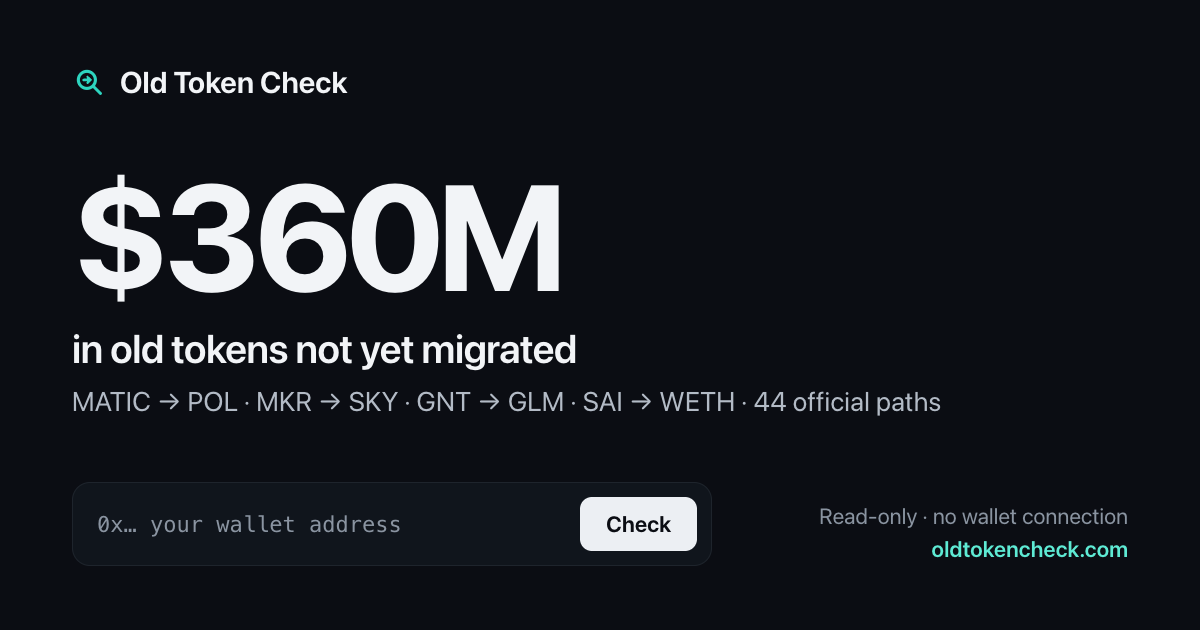
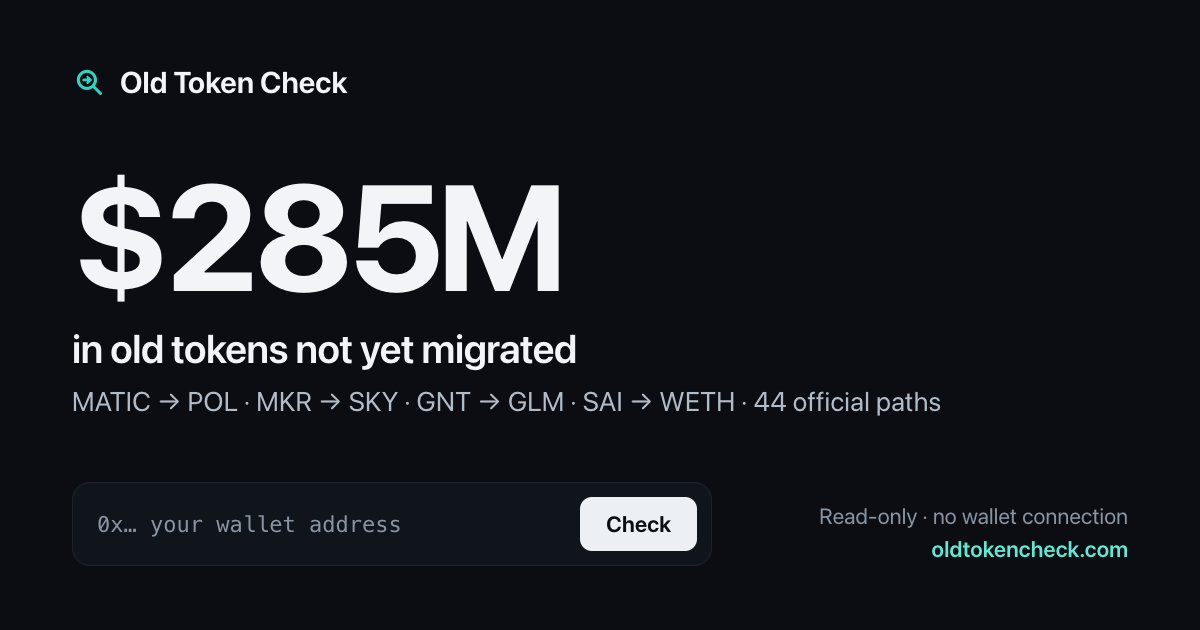
Stats: stop counting converted VELO v1 veNFTs as unmigrated
87% of VELO v1 supply sits in the v1 VotingEscrow, overwhelmingly v1 veNFTs
that were already converted to v2 and are held locked by the sink, plus
largely unclaimable rebases in the RewardsDistributor. Registry entries can
now list statsExclude holders; the headline drops from $360.1M to $285.1M.

Also adds research/HOLDINGS.md and the vote-escrow research (VELO v1, veOCEAN)
for upcoming locked-position support (not yet wired into the site).

Changed region(s): [[0.1233, 0.2714, 0.37, 0.4825]]

diff --git a/index.html b/index.html
@@ -16,7 +16,7 @@
   <meta property="og:image" content="https://oldtokencheck.com/og.png">
   <meta property="og:image:width" content="1200">
   <meta property="og:image:height" content="630">
-  <meta property="og:image:alt" content="Old Token Check: $360M in old tokens not yet migrated">
+  <meta property="og:image:alt" content="Old Token Check: $285M in old tokens not yet migrated">
   <meta name="twitter:card" content="summary_large_image">
   <meta name="twitter:title" content="Old Token Check: find old tokens you can still migrate">
   <meta name="twitter:description" content="Paste a wallet address. Every result is proven by a simulation from it. Read-only, no wallet connection.">

diff --git a/tools/build_stats.py b/tools/build_stats.py
@@ -45,7 +45,8 @@ total = 0.0; unpriced = []; rows = []
 for e in entries:
     c = e["chainId"]; ot = e["oldToken"]; nt = e["newToken"]
     sup = call_uint(c, ot["address"], "0x18160ddd")
-    out_old = sup - bal(c, ot["address"], e["migrator"]) - sum(bal(c, ot["address"], b) for b in BURN)
+    excl = [x["address"] for x in e.get("statsExclude", [])]  # holders that are not unmigrated user funds
+    out_old = sup - bal(c, ot["address"], e["migrator"]) - sum(bal(c, ot["address"], b) for b in BURN + excl)
     out_old = max(out_old, 0)
     ratio = Fraction(e["ratio"]["num"]) / Fraction(e["ratio"]["den"])
     new_whole = Fraction(out_old, 10 ** ot["decimals"]) * ratio
@@ -67,7 +68,7 @@ stats = {
     "unpriced": unpriced,
     "asOf": datetime.datetime.now(datetime.UTC).strftime("%Y-%m-%d"),
     "ethBlock": head,
-    "method": "Per path: min(outstanding old supply x ratio, payout reserve) x DefiLlama price. Outstanding = totalSupply minus migrator and burn-address balances.",
+    "method": "Per path: min(outstanding old supply x ratio, payout reserve) x DefiLlama price. Outstanding = totalSupply minus migrator, burn-address and known non-user balances (statsExclude, e.g. converted veNFTs held by a sink).",
 }
 json.dump(stats, open("data/stats.json", "w"), indent=1)
 print(json.dumps(stats, indent=1))

diff --git a/research/holdings-ve.md b/research/holdings-ve.md
@@ -1,0 +1,175 @@
+# Vote-escrowed old tokens: VELO v1 veNFTs (Optimism) and veOCEAN (Ethereum)
+
+Researched 2026-09-30. Optimism base block 157,570,832 (ts 1790740441); Ethereum base block 26,087,755.
+All sims: `eth_simulateV1`, `traceTransfers: true`, `validation: false`, time pinned on every block.
+Prices (DefiLlama, today): VELO v1 = VELO v2 = $0.0345; OCEAN $0.158; FET $0.220.
+
+## Summary
+
+| Position | Old token locked | ≈USD | Share already unlocked | Exit works today? | Simulated result |
+|---|---|---|---|---|---|
+| Velodrome v1 veNFTs, user-owned (excl. SinkManager and Beefy) | 2,875,837 VELO v1 in 9,368 NFTs | ~$99k | **79%** (2,279,195 in 7,113 NFTs, 4,925 owners) | Yes. Expired: `withdraw` → `convertVELO`. Unexpired: `convertVe` → v2 veNFT with the same end date | 41,274.37 VELO v1 → 41,274.37 VELO v2 (1:1). Unexpired: 104,680.94 v1 veNFT → v2 veNFT #34374 with the same amount and end |
+| Beefy beVELO veNFT #11346 (protocol wrapper) | 26,948,728 VELO v1 | ~$930k | 0% (ends 2028-01-27) | Only Beefy can act. Out of scope | not simulated |
+| SinkManager veNFT #26637 (protocol-owned sink) | 1,717,623,245 VELO v1 | n/a | n/a (it's the converted supply) | n/a. Not user funds | n/a |
+| veOCEAN locks | 26,572,646 OCEAN in 386 locks | ~$4.2M (≈$2.5M as FET) | **4.3%** (1,136,715 OCEAN, 120 locks) | Yes for expired locks: `withdraw()` → `migrateTokens` | 209,528 OCEAN → 90,772.98 FET (0.433226) |
+
+**Registry output:** one entry, `veocean-locked-to-fet`, in `data/registry.holdings-ve.json`. It fits the
+current holding shape: `locked(address)` takes one address and returns the amount as word 0. The engine
+can't express VELO v1 veNFTs because they're NFT positions (spec below).
+
+---
+
+## 1. Velodrome v1 VotingEscrow (Optimism)
+
+Contracts. All have code, and all are tagged "Velodrome Finance" on the Optimism explorer. The v2 SinkManager returns the same addresses on-chain:
+- VotingEscrow v1 (veNFT): `0x9c7305eb78a432ced5C4D14Cac27E8Ed569A2e26` (`SinkManager.ve()`)
+- Voter v1: `0x09236cff45047dbee6b921e00704bed6d6b8cf7e` (`SinkManager.voter()`)
+- RewardsDistributor v1: `0x5d5Bea9f0Fc13d967511668a60a3369fD53F784F` (`SinkManager.rewardsDistributor()`)
+- SinkManager (v2 converter): `0x5aeE5F0E6C2055EbD776DB25F48f6c9A68ABcdaE`. `ownedTokenId()` = 26637; `veV2()` = `0xFAf8FD17D9840595845582fCB047DF13f006787d`
+- Source: github.com/velodrome-finance/contracts `v2-optimism` → `contracts/v1/sink/SinkManager.sol`
+
+### How much is locked
+I enumerated every token ID from 1 to 26,905 (the highest ID with `user_point_epoch > 0`) with Multicall3: `locked`, `ownerOf`, `voted` and `attachments`.
+The sum of all `locked(id).amount` values is 1,747,447,810 VELO v1. That exactly equals `VELO_v1.balanceOf(VE)`, so the enumeration is complete.
+(`VE.supply()` reports 2.57B. That figure is inflated by the known Solidly `merge` bug, which never subtracts from `supply`, so don't use it.)
+
+| Holder | VELO v1 |
+|---|---|
+| SinkManager veNFT #26637 (all converted v1, relocked to 2030-09-19) | 1,717,623,245 |
+| Beefy "beVELO" (`0xfdeffc7a…c265`, contract) NFT #11346, end 2028-01-27, voted | 26,948,728 |
+| All other veNFTs (9,368 NFTs) | 2,875,837 |
+
+Lock-end distribution for the 2,875,837 VELO v1 in other veNFTs:
+- already expired: 2,279,195 (79.3%). Of this, 1,320,874 has `voted=true` and 235,381 is attached to a gauge.
+- 2026 H2: 176,212 · 2027 H1: 404,875 · 2027 H2: 12,478 · 2028 H1: ~1,800 · later: ~1,300
+
+### Exit paths (all simulated)
+1. **Expired, not voted, not attached**: holder `0x12311fe6…446e`, NFT #10216 (41,274.37 VELO, ended 2026-08-19).
+   `VE.withdraw(10216)` → `VELOv1.approve(SinkManager, amt)` → `SinkManager.convertVELO(amt)`.
+   Result: 41,274.371721387369181590 VELO v1 in → the same amount of VELO v2 minted to the holder. ✅
+2. **Expired + voted**: holder `0x9609bab9…eefb7`, NFT #6220 (37,653.33 VELO). `withdraw` alone reverts with `attached`.
+   `Voter.reset(6220)` → `withdraw` → approve → `convertVELO`. All succeed: 37,653.33 VELO v2 out. ✅
+   (`reset` has an `onlyNewEpoch` guard. It fails only if the NFT voted in the current epoch, which is irrelevant for dormant v1 NFTs.)
+3. **Expired + attached to a gauge**: holder `0xecca5382…a9020`, NFT #4764 (45,956.95 VELO), attached in gauge `0x0299d40e…214c`.
+   `Gauge.withdrawToken(0, 4764)` (detaches without moving LP) → `Voter.reset` → `withdraw` → approve → `convertVELO`. Result: 45,956.95 VELO v2 out. ✅
+4. **Unexpired: convert the veNFT today**: holder `0xe16c0e1b…ccd`, NFT #16117 (104,680.94 VELO, ends 2027-01-21, voted).
+   `Voter.reset(16117)` → `VE.approve(SinkManager, 16117)` → `SinkManager.convertVe(16117)`. This returns v2 veNFT #34374, and `veV2.locked(34374)` shows the same amount and end 1800489600 (same as v1).
+   A later block pinned at end+60s ran `veV2.withdraw(34374)` → 104,680.94 VELO v2 to the holder. ✅
+   Without `reset`: `convertVe` reverts `attached`. On an expired NFT, `convertVe` reverts `0xf7b679fe` (`NFTExpired()`).
+5. **Unexpired: wait in v1 (time override)**: same NFT. `reset` now, then in a block pinned to end+60s: `withdraw` → approve → `convertVELO`. Result: 104,680.94 VELO v2. ✅
+   A 113-day time jump simulates fine. Today, `withdraw` reverts `The lock didn't expire`.
+
+**Is veNFT v1→v2 conversion shipped and open?** Yes. The Velodrome v2 announcement (paragraph.com/@velodrome/v2) says v1 veNFTs convert "with the same vesting time and underlying locked token balance."
+The code has no deadline and no pause. The only guards are `ownedTokenId != 0`, not already converted, approval, and not expired.
+
+### Rebases (v1 RewardsDistributor): trap for expired locks
+- `RD.claimable(id)` over all user NFTs: Beefy 1,233,889; unexpired user NFTs 59,579; expired user NFTs 164,851.
+- For **expired** NFTs, `claim(id)` reverts `Cannot add to expired lock. Withdraw`, because v1 RD deposits into the lock. That ~165k VELO v1 (~$5.7k) is permanently stuck. Simulated on #10216, which has 5,378 claimable.
+- For **unexpired** NFTs, `claim(id)` works and adds to the lock (simulated on #16117: +10,809 VELO into the lock). Claim **before** `convertVe` or expiry, or the rebase is lost.
+- RD holds 239,972,342 VELO v1 in total (`token_last_balance`), but per-NFT `claimable` only accounts for ~1.46M. The rest isn't attributable to users through the view. It's the sink/protocol's backlog.
+
+### Other VELO v1 belonging to users (not engine-expressible today)
+- 401 v1 gauges (excl. sink gauge `0x987E…95d6`) hold 2,788,876 VELO v1 as unclaimed/streaming LP rewards. Claim: `Gauge.getReward(user, [VELOv1])`. View: `earned(VELOv1, user)`, which takes two arguments.
+- v1 internal/external bribes hold 103,264 VELO v1 (claimable per tokenId via `getReward(tokenId, tokens[])`).
+- Voter v1 holds 52,849 (undistributed).
+
+---
+
+## 2. veOCEAN (Ethereum)
+
+- veOCEAN: `0xE86Bf3B0D3a20444DE7c78932ACe6e5EfFE92379`. Verified Vyper `VotingEscrow`, Curve-style (one lock per address), `token()` = OCEAN. `transfersEnabled()` is irrelevant.
+- Ocean docs (docs.oceanprotocol.com/data-farming): veOCEAN, Passive DF and Active DF were retired **3 May 2024**. Holders got an airdrop, and locked OCEAN "unlock[s] according to its schedule (up to 4 years)". Holders claim the airdrop and past rewards at df.oceandao.org/rewards.
+- ASI docs/FAQ say nothing specific about veOCEAN. Ocean Protocol Foundation left the alliance on 2025-10-09. The OCEAN→FET migrator `0x664D…E663` (existing `ocean-to-fet` entry) is still unpaused.
+
+### How much is locked
+I collected 2,135 `Deposit` logs from Blockscout, giving 1,100 providers, then read `locked(address)` for each.
+Result: 386 non-zero locks = **26,572,646 OCEAN**. That equals both `supply()` and `OCEAN.balanceOf(veOCEAN)` exactly.
+- expired: 1,136,715 OCEAN (4.3%, 120 locks)
+- 2026 Q4: 1,066,072 · 2027 Q1: 846,454 · Q2: 101,184 · Q3: 507,473 · Q4: 2,761,568 · **2028 Q1: 20,153,180** (the last lock ends 2028-03-23)
+- Largest: `0xa7d4…9da3` 5.77M, `0xc1b8…5f63` 2.71M and `0xac51…03f9` 2.71M (all end 2028-02-10, all EOAs).
+
+### Exit (simulated)
+- Expired: holder `0xa911ccf5…c8fae5` (EOA, 209,528 OCEAN, ended 2026-07-30). `veOCEAN.withdraw()` → `OCEAN.approve(migrator)` → `migrateTokens(209528e18)`.
+  Result: 209,528 OCEAN → 0xdead, and **90,772.977328 FET** to the holder. ✅
+- Unexpired: `0xc1b8…5f63` (2,714,573 OCEAN, end 2028-02-10). `withdraw()` today reverts `The lock didn't expire`.
+  With a block pinned to end+60s (a ~497-day jump), the same three steps give **1,176,023.6 FET**. ✅
+- **Capacity:** the migrator holds 5,595,726 FET, which covers ~12.9M OCEAN. That's less than half of what's locked in veOCEAN. The first-come-first-served warning applies even more strongly here.
+- Value note: 0.433226 FET × $0.22 ≈ $0.095 per OCEAN, versus OCEAN's market price of ~$0.158. Migrating currently loses value versus selling OCEAN, if a market exists for the user.
+
+### Other OCEAN belonging to users
+- veOCEAN FeeDistributor `0x256c54219816603BB8327F9019533B020a76e936` (Curve Vyper; `is_killed()=false`) holds 43,870 OCEAN.
+  Simulating `claim(address)` for all 1,100 ever-lockers pays out 36,205 OCEAN across 524 addresses. `claim(address)` works for expired and unexpired alike, and anyone can call it for the user.
+- DFRewards `0xFe27534EA0c016634b2DaA97Ae3eF43fEe71EEB0` holds 321,205 OCEAN. All of it is `claimable(user, OCEAN)` by 193 ve-depositors (DF rewards and the retirement airdrop). Claim: `claimFor(user, OCEAN)`, callable by anyone.
+- Neither can go in the registry today: DFRewards' view takes two arguments, and FeeDistributor has no view (`claim(address)` only returns the amount via `eth_call`).
+
+---
+
+## 3. The registry entry I added (and its caveat)
+
+`veocean-locked-to-fet`: holding `{contract: veOCEAN, signature: "locked(address)", label: "locked in veOCEAN"}`, then steps `withdraw()` → approve → `migrateTokens($amount)`. It reuses `statusCheck` and `payoutReserve` from `ocean-to-fet`.
+Caveat: 96% of the locked OCEAN is unexpired. Those users will see **"Simulation failed: The lock didn't expire"** (bad tone) until their date. A `warn` note explains this.
+Drop the entry if you'd rather wait for the unlock-date feature below. With that feature it becomes a clean "Unlocks on <date>" card.
+
+---
+
+## 4. Engine spec needed
+
+### A. Unlock-time concept (serves both)
+Add an optional `holding.unlock` to the holding:
+```json
+"unlock": { "signature": "locked(address)", "word": 1 }          // veOCEAN: end = word 1 of the same call
+"unlock": { "signature": "locked__end(address)", "word": 0 }     // equivalent
+```
+Engine behaviour:
+- If `end > now`, status is `locked-until` with the text "Unlocks on <date>". The engine then simulates the steps in a block with `blockOverrides.time = end + 60`, pinned on every block. This proves the path works at unlock (both chains handled 100–500-day jumps fine).
+- If `end <= now`, it simulates normally.
+- Payout-reserve checks still apply at simulation time.
+
+### B. NFT positions (VELO v1 veNFT)
+```json
+"holding": {
+  "type": "erc721-ve",
+  "contract": "0x9c7305eb78a432ced5C4D14Cac27E8Ed569A2e26",
+  "label": "locked in a v1 veNFT"
+}
+```
+**Enumerate the user's NFTs:**
+1. `balanceOf(user)` → n
+2. `tokenOfOwnerByIndex(user, i)` for i < n. The Solidly/Velodrome v1 VE source has this function, but I didn't get to call it live (tooling hiccup), so confirm it on-chain. As a fallback, index `Transfer` events.
+
+**Per tokenId, read:**
+- `locked(tokenId)` → `(int128 amount, uint256 end)`. `amount` is raw VELO v1; `end` is the unix unlock time.
+- `voted(tokenId)` (bool) → adds a reset step.
+- `attachments(tokenId)` (uint) → adds a detach step. To find the gauge, loop `Voter.length()`, then `pools(i)` → `gauges(pool)` → `gauge.tokenIds(user) == tokenId`: 402 gauges, 3 multicalls. Or ship a static gauge list.
+- `RewardsDistributor.claimable(tokenId)` → rebases to claim first (only when unexpired).
+
+**One card per tokenId**, with `$tokenId` and `$amount` placeholders. Steps are conditional:
+- **Expired:**
+  - [if attached] `Gauge.withdrawToken(0, $tokenId)`
+  - [if voted] `Voter(0x09236c…).reset($tokenId)`
+  - `VE.withdraw($tokenId)`
+  - approve VELO v1 → SinkManager
+  - `SinkManager.convertVELO($amount)`
+
+  The output is liquid VELO v2 at 1:1. The unclaimed rebase is lost (it can't be claimed on an expired lock); show it as an info note.
+- **Unexpired:** offer two options.
+  - **(a) Convert now:**
+    - [if RD.claimable > 0] `RD(0x5d5B…).claim($tokenId)`
+    - [if attached] detach
+    - [if voted] `reset`
+    - `VE.approve(SinkManager, $tokenId)`
+    - `SinkManager.convertVe($tokenId)`
+
+    The output is a v2 veNFT, not liquid VELO. The simulation's success check must look for an ERC-721 Transfer of veV2 `0xFAf8…787d` to the user (or read the `convertVe` return value) instead of an ERC-20 inflow. Optionally add a second pinned block at `end+60` with `veV2.withdraw(newId)` to show the final VELO v2.
+  - **(b) Wait:** "Unlocks on <end>". Simulate `reset` now, then in a block at end+60: `withdraw` → `convertVELO`.
+
+**Needs a new signature arg type:** `$tokenId`, plus conditional steps (`"if": "voted" | "attached" | "claimable"`).
+
+### C. Also useful (lower value)
+- **Two-argument holding views** (`earned(token, user)`, `claimable(user, token)`): these unlock v1 gauge rewards (2.79M VELO v1 across 401 gauges, ~$96k) and DFRewards (321k OCEAN, ~$51k).
+- **"Claim-as-view" holdings** (non-view `claim(address)` read via `eth_call`): these unlock the veOCEAN FeeDistributor (36k OCEAN).
+
+## Rejected / not listed
+- Beefy beVELO (26.9M VELO v1 in veNFT #11346): Beefy owns the lock, and users hold beVELO. There's no official path for a user.
+- VELO v1 rebases on expired veNFTs (~165k): permanently unclaimable. `claim` reverts `Cannot add to expired lock`.
+- SinkManager veNFT and RD backlog: protocol-owned, not user funds.

diff --git a/research/HOLDINGS.md b/research/HOLDINGS.md
@@ -1,0 +1,74 @@
+# Holdings: positions that are not plain wallet balances
+
+The checker originally read `oldToken.balanceOf(user)`. Registry entries can now describe a position
+held inside a contract (staked, locked for voting, escrowed). Read `SCHEMA.md` first; this file only
+covers the additions. A working example lives in `data/registry.multichain.json`
+(`thales-staked-optimism`, `thales-unstaking-optimism`).
+
+## What the engine supports today
+
+```json
+{
+  "holding": {
+    "contract": "0x…",                       // where the position lives
+    "signature": "stakedBalanceOf(address)",   // view fn(user) -> uint256 amount of OLD token (raw units)
+    "label": "staked"                          // shown as "you have X MKR <label>"
+  },
+  "steps": [
+    { "type": "call", "to": "0x…", "signature": "free(uint256)", "args": ["$amount"], "contractLabel": "Maker governance (DSChief)" },
+    { "type": "call", "to": "0x…", "signature": "unstake()", "args": [], "waitSeconds": 15 },
+    { "type": "approve", "token": "old", "spender": "$migrator" },
+    { "type": "call", "to": "$migrator", "signature": "…", "args": ["$amount"] }
+  ],
+  "status": "open" | "blocked"
+}
+```
+
+- `holding.signature` must take exactly one `address` (the user) and return the old-token amount as
+  the first 32-byte word. `$amount` in steps is that amount.
+- `waitSeconds` on a step = the user must wait this long after the previous step. The simulator runs the
+  steps as separate `eth_simulateV1` blocks with pinned timestamps, so a cooldown up to a few days
+  simulates fine.
+- `contractLabel` names the contract in the how-to ("Open the Maker governance (DSChief) contract…").
+- `status: "blocked"`: the path does not work today for protocol reasons (e.g. the contract was drained).
+  The card shows "Blocked for now" plus the entry's `warnings`, and it turns Ready automatically if
+  the live simulation ever succeeds. Blocked entries don't count toward stats.
+- Entries with `holding` are excluded from `data/stats.json` totals (they would double-count supply).
+
+## What the engine does NOT support yet (report these, don't hack around them)
+
+1. **NFT positions** (veNFTs): the user owns token IDs; the amount is per ID (`locked(tokenId)`).
+2. **Lock expiries** measured in months/years (vote-escrow). A long `waitSeconds` would simulate, but
+   the UI would tell users to "wait 126,230,400 seconds". We need an "unlocks on <date>" concept that
+   reads the user's lock end.
+3. **Positions keyed by a proxy address** rather than the user (e.g. Maker VoteProxy: the MKR is
+   deposited under the proxy's address, and the user is the proxy's cold/hot wallet).
+4. **Amounts that aren't old-token units** (LP tokens, share tokens that need a conversion rate).
+
+For any of these, write in your report exactly what the engine would need: which view calls, in what
+order, and how to turn them into an old-token amount and an unlock time. I'll build it.
+
+## Verification bar (same as the wallet registry)
+
+- Contract addresses from official docs/repos AND on-chain (`eth_getCode`, and the view function works).
+- A real current holder of the position. Simulate the full exit + migration from that holder at
+  `latest` with `eth_simulateV1` (`traceTransfers: true, validation: false`). Record in/out amounts.
+- If it reverts, find out why (drained contract, paused, lock not expired, governance-only…). A clean
+  "why" is as valuable as a success; that becomes a `blocked` entry or a rejected note.
+- Size it: roughly how much old token sits in that contract today (and in USD via DefiLlama
+  `https://coins.llama.fi/prices/current/<chain>:<addr>`).
+
+## Tooling notes (hard-won)
+
+- No foundry. `python3` with `from eth_hash.auto import keccak`, `coincurve`, `eth_keys` available; Node 22.
+- RPCs: `https://<chain>.drpc.org` for eth_call/eth_simulateV1 (eth_getLogs limited to <10k blocks;
+  drpc sometimes returns "method handler crashed" or 429, so retry, or fall back to
+  `https://<chain>-rpc.publicnode.com` / `https://ethereum-rpc.publicnode.com`). publicnode refuses
+  archive/large log queries. drpc rejects `eth_call` with a state override (HTTP 400); publicnode accepts it.
+- Multi-block `eth_simulateV1`: pin `blockOverrides.time` on EVERY block (an unpinned first block drifts ~12s).
+- Blockscout (`https://eth.blockscout.com`, `optimism.blockscout.com`, …) `module=logs&action=getLogs`
+  handles big ranges but rate-limits hard: one request at a time, sleep between them. Event args are often
+  non-indexed (read them from `data`). Holder lists for old tokens are stale, so always confirm with `balanceOf`.
+- To prove a path would work if a precondition changed (e.g. contract refilled), simulate with
+  `stateOverrides` on the token's balance slot (find the mapping slot by probing `keccak(pad(addr)+pad(i))`).
+- Never print or store private keys; you won't need any.
